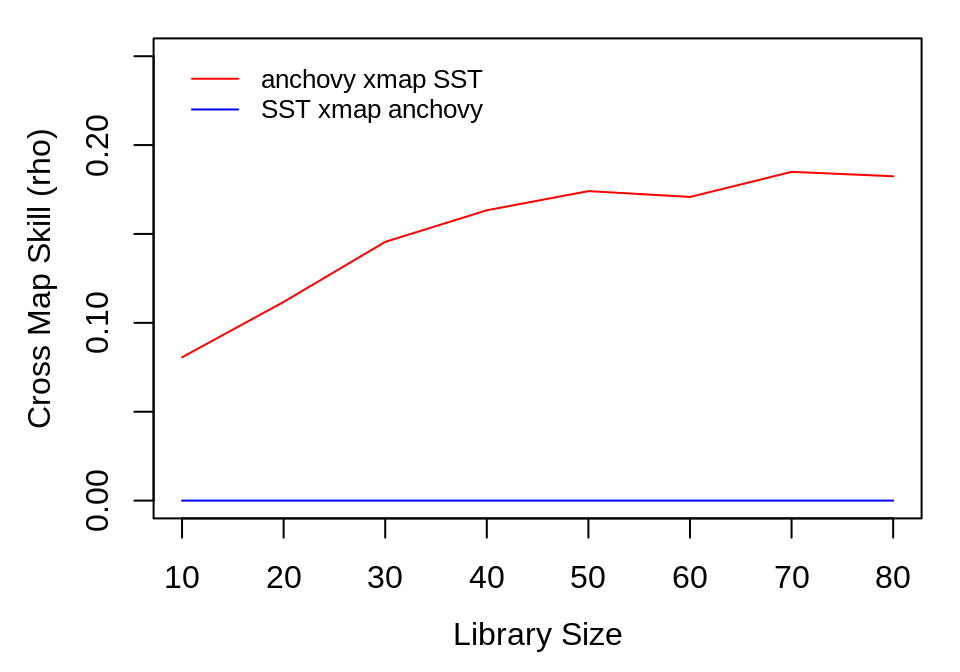
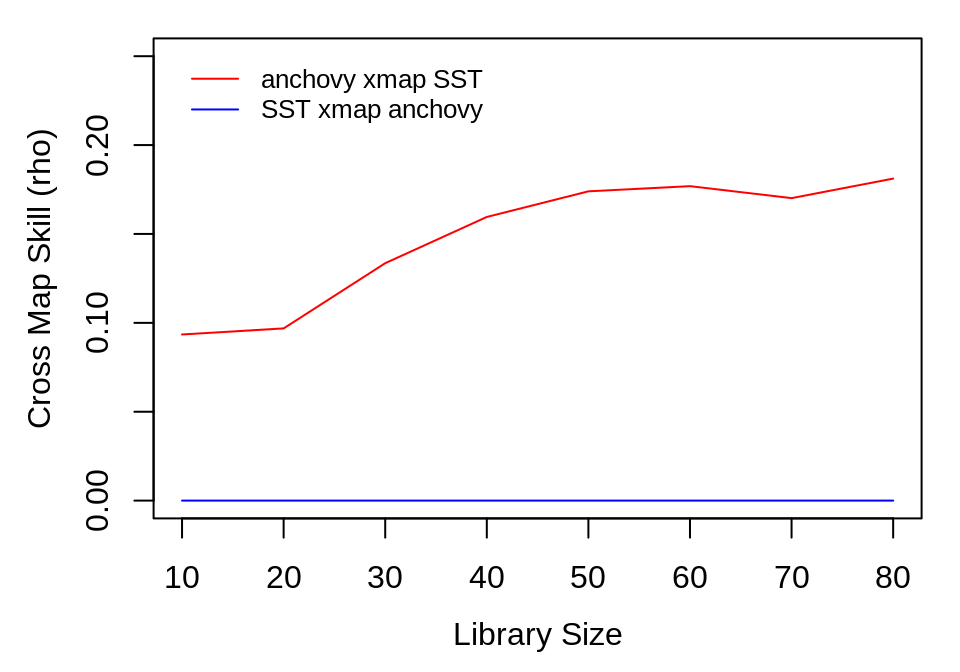
Deploy ha0ye/rEDM to github.com/ha0ye/rEDM.git:gh-pages

Changed region(s): [[0.5312, 0.25, 0.9375, 0.3125], [0.1875, 0.3125, 0.5312, 0.5312]]

diff --git a/articles/rEDM.html b/articles/rEDM.html
@@ -91,7 +91,7 @@
                         <h4 class="author">Ethan Deyle</h4>
                         <h4 class="author">George Sugihara</h4>
             
-            <h4 class="date">2019-09-24</h4>
+            <h4 class="date">2019-09-26</h4>
       
       <small class="dont-index">Source: <a href="https://github.com/ha0ye/rEDM/blob/master/vignettes/rEDM.Rmd"><code>vignettes/rEDM.Rmd</code></a></small>
       <div class="hidden name"><code>rEDM.Rmd</code></div>
@@ -489,9 +489,9 @@
 ##  $ target_column: Factor w/ 1 level "np_sst": 1 1 1 1 1 1 1 1 1 1 ...
 ##  $ lib_size     : num  10 10 10 10 10 10 10 10 10 10 ...
 ##  $ num_pred     : num  76 76 76 76 76 76 76 76 76 76 ...
-##  $ rho          : num  0.32753 0.04754 0.26762 0.19434 -0.00877 ...
-##  $ mae          : num  0.876 0.948 0.786 0.892 0.939 ...
-##  $ rmse         : num  1.093 1.209 0.976 1.1 1.197 ...</code></pre>
+##  $ rho          : num  0.2958 0.1483 -0.1498 -0.0649 0.2299 ...
+##  $ mae          : num  0.877 0.971 0.977 0.904 1.019 ...
+##  $ rmse         : num  1.1 1.18 1.23 1.11 1.24 ...</code></pre>
 <p>The output is a data.frame with statistics for each model run (in this case, 100 models at each of 8 library sizes). To interpret the results, we aggregate the cross map performance at each library size using the <code><a href="../reference/ccm_means.html">ccm_means()</a></code> function, which computes a mean value at each unique <code>lib_size</code>. Because average cross map skill less than 0 means there is no prediction skill, (predictions should not be anticorrelated with observations), we set negative values to 0 when plotting.</p>
 <div class="sourceCode" id="cb35"><pre class="sourceCode r"><code class="sourceCode r"><a class="sourceLine" id="cb35-1" data-line-number="1">a_xmap_t_means &lt;-<span class="st"> </span><span class="kw"><a href="../reference/ccm_means.html">ccm_means</a></span>(anchovy_xmap_sst)</a>
 <a class="sourceLine" id="cb35-2" data-line-number="2">t_xmap_a_means &lt;-<span class="st"> </span><span class="kw"><a href="../reference/ccm_means.html">ccm_means</a></span>(sst_xmap_anchovy)</a>

diff --git a/articles/rEDM-coprediction.html b/articles/rEDM-coprediction.html
@@ -88,7 +88,7 @@
       <h1>co-prediction: using rEDM to quantify dynamic similarity</h1>
                         <h4 class="author">Hao Ye</h4>
             
-            <h4 class="date">2019-09-24</h4>
+            <h4 class="date">2019-09-26</h4>
       
       <small class="dont-index">Source: <a href="https://github.com/ha0ye/rEDM/blob/master/vignettes/rEDM-coprediction.Rmd"><code>vignettes/rEDM-coprediction.Rmd</code></a></small>
       <div class="hidden name"><code>rEDM-coprediction.Rmd</code></div>

diff --git a/articles/rEDM-time-delay-ccm.html b/articles/rEDM-time-delay-ccm.html
@@ -88,7 +88,7 @@
       <h1>Using rEDM to quantify time delays in causation</h1>
                         <h4 class="author">Hao Ye</h4>
             
-            <h4 class="date">2019-09-24</h4>
+            <h4 class="date">2019-09-26</h4>
       
       <small class="dont-index">Source: <a href="https://github.com/ha0ye/rEDM/blob/master/vignettes/rEDM-time-delay-ccm.Rmd"><code>vignettes/rEDM-time-delay-ccm.Rmd</code></a></small>
       <div class="hidden name"><code>rEDM-time-delay-ccm.Rmd</code></div>
